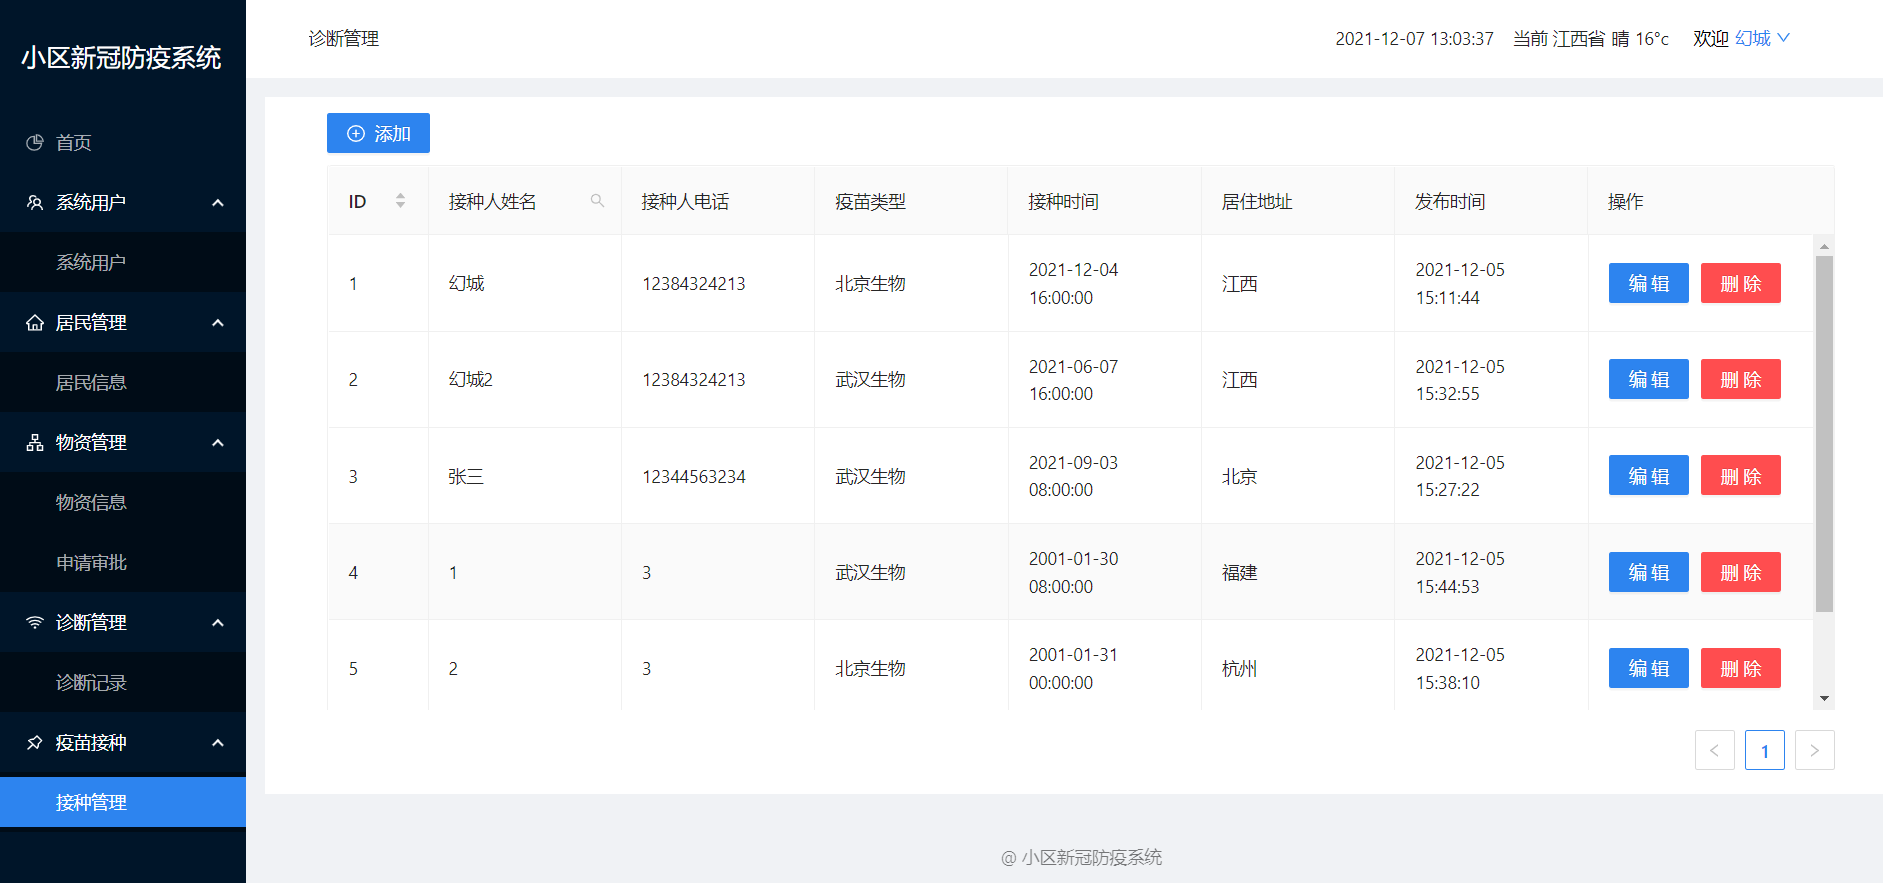
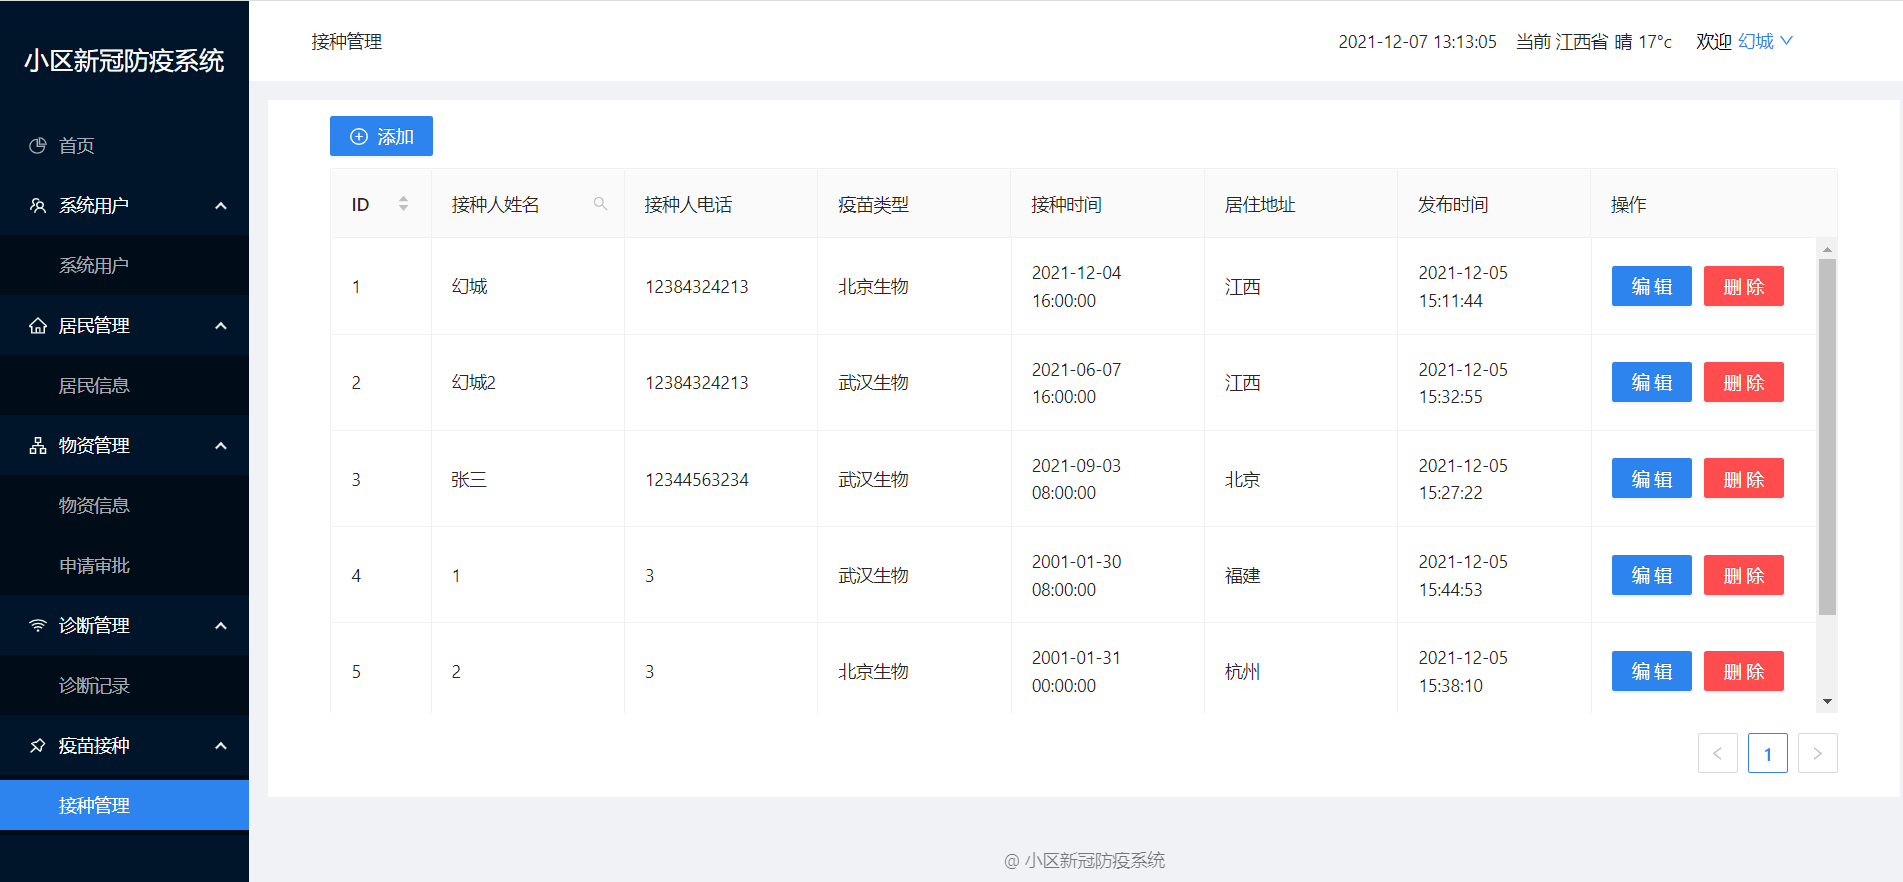
疫苗接种管理

diff --git a/src/components/header/index.js b/src/components/header/index.js
@@ -56,7 +56,7 @@ class Headers extends Component {
       <div className='header'>
         {/* 当前路由地址 */}
         <div className='header-path'>
-          <span>诊断管理</span>
+          <span>接种管理</span>
         </div>
         {/* 天气、时间 */}
         <div className="header-content">
